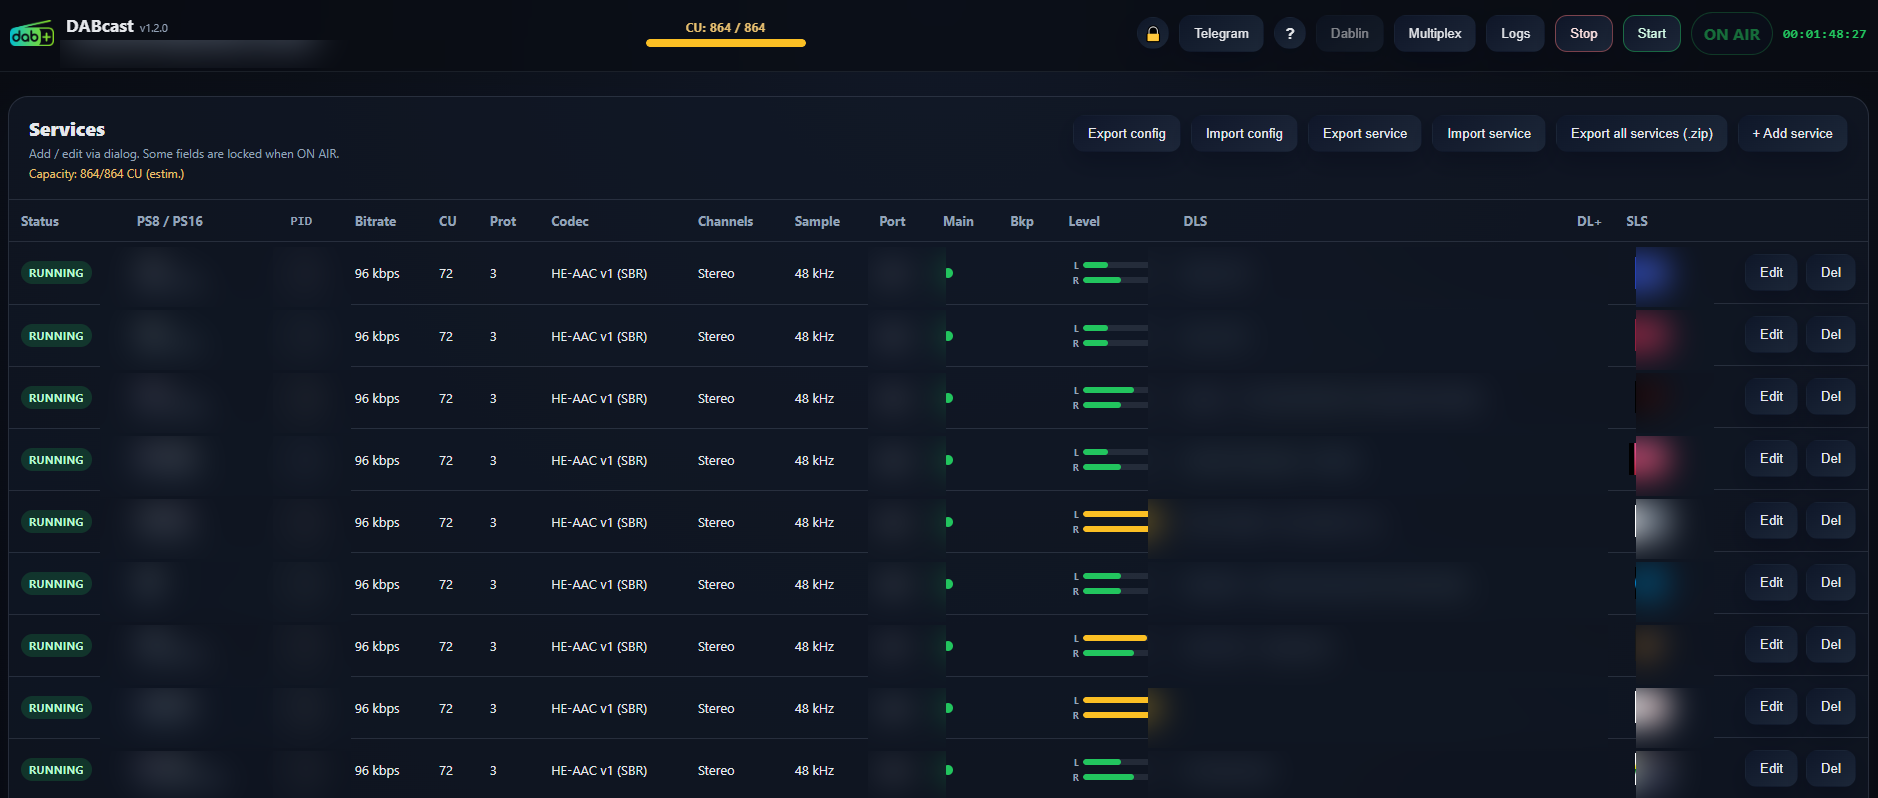
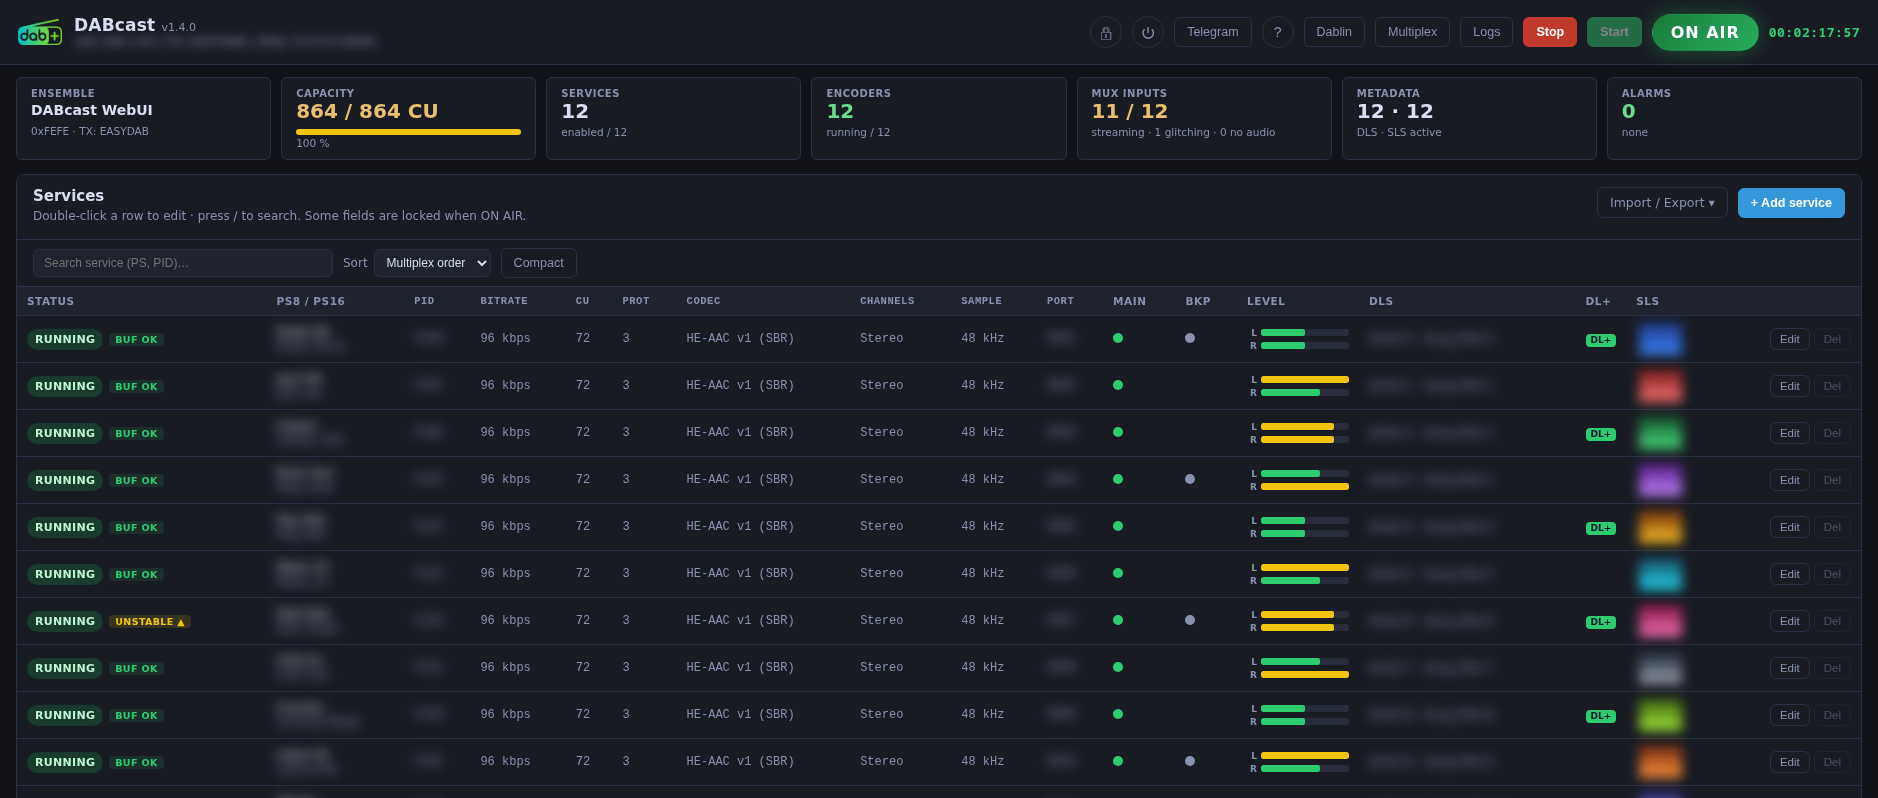
web: refresh website for v1.4 — new screenshot and feature card
- Screenshot of the v1.4 interface (fictitious data, sensitive columns
  blurred as before)
- New "Mux input monitoring" feature card; interface and sign-in cards
  merged to keep a 3×3 grid

diff --git a/webpage/index.html b/webpage/index.html
@@ -103,14 +103,14 @@
 
           <div class="feature-card">
             <div class="feature-icon">🖥</div>
-            <h3>Browser-based interface</h3>
-            <p>Clean dark-themed UI accessible from any device on your local network. No desktop environment required on the broadcast server.</p>
+            <h3>Control-room web interface</h3>
+            <p>Dark UI with live summary cards, service search, sort and compact view, usable from any device on your network. Secure sign-in with signed sessions and brute-force protection.</p>
           </div>
 
           <div class="feature-card">
-            <div class="feature-icon">🔐</div>
-            <h3>Integrated secure sign-in</h3>
-            <p>Branded responsive login with signed sessions, persistent sign-in, brute-force protection and automatic session invalidation after a password change.</p>
+            <div class="feature-icon">📊</div>
+            <h3>Mux input monitoring <span class="new-badge">New in 1.4</span></h3>
+            <p>Reads the odr-dabmux input buffers of every service: underruns, silence or missing audio are flagged live — even when the encoder process still looks healthy.</p>
           </div>
 
           <div class="feature-card">

diff --git a/webpage/style.css b/webpage/style.css
@@ -430,3 +430,5 @@ footer {
   .lightbox-close { top: 8px; right: 8px; }
   .lightbox-caption span { display: none; }
 }
+
+.new-badge { display: inline-block; margin-left: 6px; padding: 1px 7px; border-radius: 999px; font-size: 11px; font-weight: 700; vertical-align: middle; background: rgba(34,197,94,.16); color: #4ade80; letter-spacing: .02em; }
